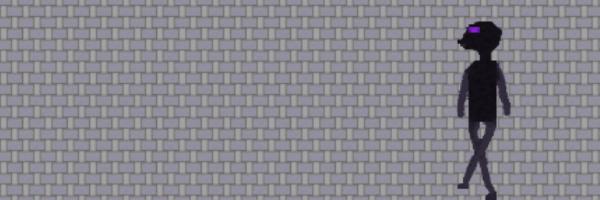
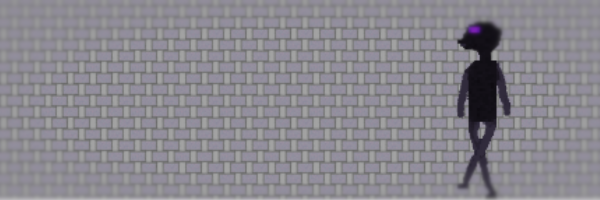
add gol link

diff --git a/css/index.css b/css/index.css
@@ -65,22 +65,38 @@ h1 {
   margin: 0px;
   width: 600px;
   height: 200px;
-  background: url("../resources/images/endy_hover.png") no-repeat;
   display: flex;
   align-items: center;
   justify-content: center;
+  
 }
-.card:hover {
+
+#endy-card{
   background: url("../resources/images/endy_blur.png") no-repeat;
 }
+#endy-card:hover{
+  background: url("../resources/images/endy_hover.png") no-repeat;
+}
+
+#gol-card{
+  background: url("../resources/images/gol_blur.png") no-repeat;
+}
+#gol-card:hover{
+  background: url("../resources/images/gol_hover.png") no-repeat;
+}
+
 .project-name {
   font-weight: 800;
   font-variant: small-caps;
   font-size: 60px;
   margin: 0;
+  color: #96e5ff;
+  mix-blend-mode: normal;
 }
 .card:hover > .project-name {
   color: #96e5ff;
+  mix-blend-mode: difference;
+  
 }
 a {
   text-decoration: none;

diff --git a/index.html b/index.html
@@ -11,7 +11,8 @@
             <h1>BailesDTDs Portfolio</h1>
         </div>
         <ul class = "row">
-            <li ><a class="card" href="BailesDTD_endy/"><span class="project-name">Endy Fella</span></a></li>
+            <li ><a class = "card" id="endy-card" href="BailesDTD_endy/"><span class="project-name">Endy Fella</span></a></li>
+            <li ><a class="card" id="gol-card" href="BailesDTD_GameOfLife/"><span class="project-name">Game of Life</span></a></li>
         </ul>
         </div>
     </div>
